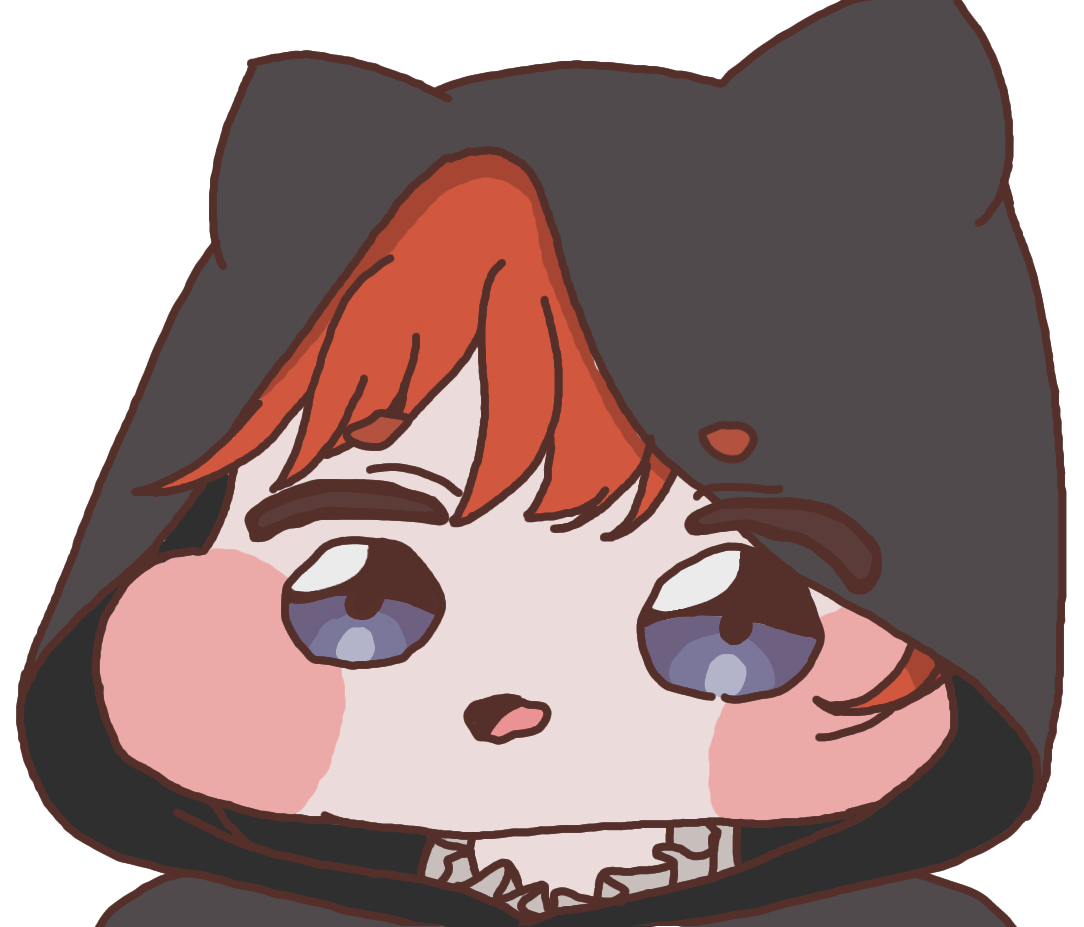
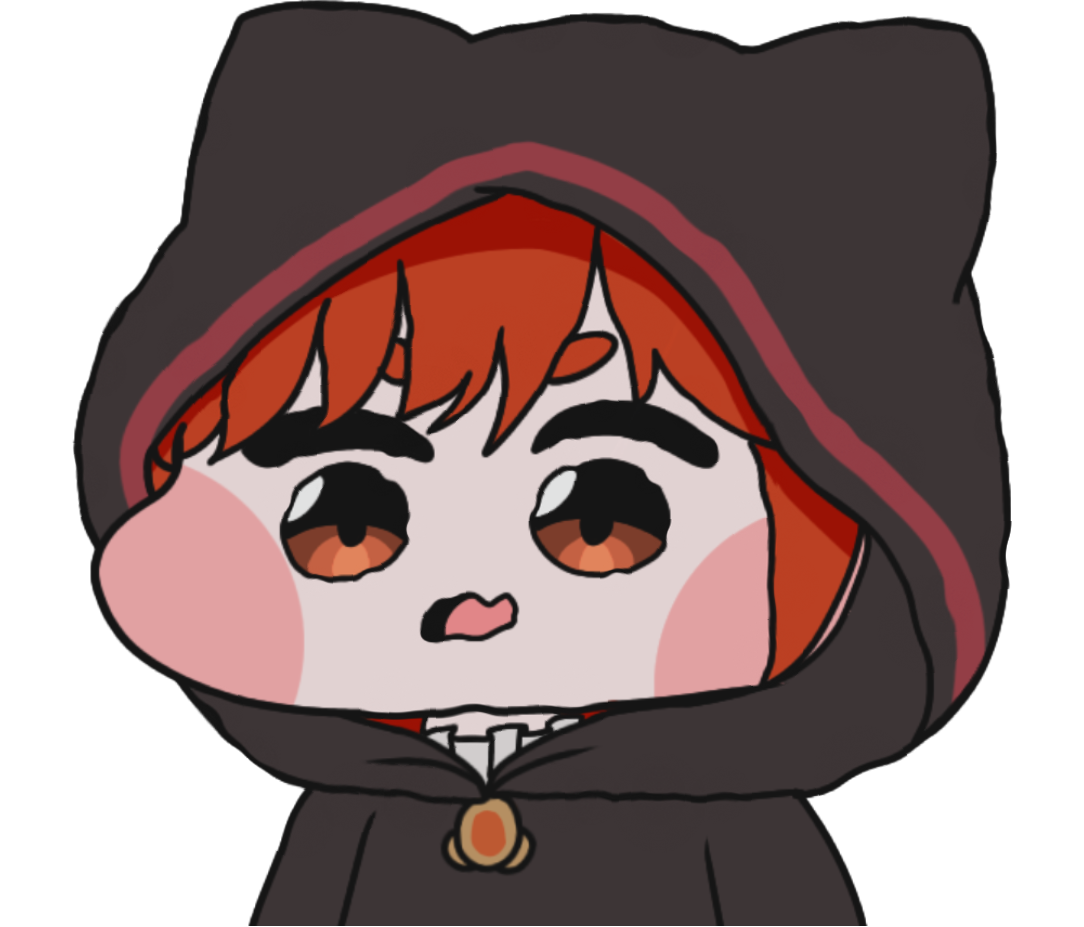
feat: Replaced base model asset placeholder and adjust current placeholder cheeks asset to match final asset cheek position for clear presentation, as well as 2 idle base model for trembling effect

diff --git a/scenes/GameScene.js b/scenes/GameScene.js
@@ -7,7 +7,7 @@ class GameScene extends Phaser.Scene {
         // Load all assets
         this.load.image('background', 'assets/images/background.png');
         this.load.image('character-idle-1', 'assets/images/character-idle-1.png');
-        this.load.image('character-idle-2', 'assets/images/character-idle-1.png'); // Temp: same as idle-1
+        this.load.image('character-idle-2', 'assets/images/character-idle-2.png'); // Temp: same as idle-1
         this.load.image('cheek-0', 'assets/images/cheek-0.png');
         this.load.image('cheek-1', 'assets/images/cheek-1.png');
         this.load.image('cheek-2', 'assets/images/cheek-2.png');
@@ -65,7 +65,7 @@ class GameScene extends Phaser.Scene {
 
         // ===== CHEEKS =====
         const cheekX = 630;
-        const cheekY = 504;
+        const cheekY = 420;
         const cheekScale = 720 / 927;
 
         this.cheekFrames = [];
@@ -372,7 +372,6 @@ class GameScene extends Phaser.Scene {
         this.slapSfx.play();
 
         const cheekX = 630;
-        const cheekY = 504;
 
         // Clear any pending reset timers
         if (this.resetTimer) {
